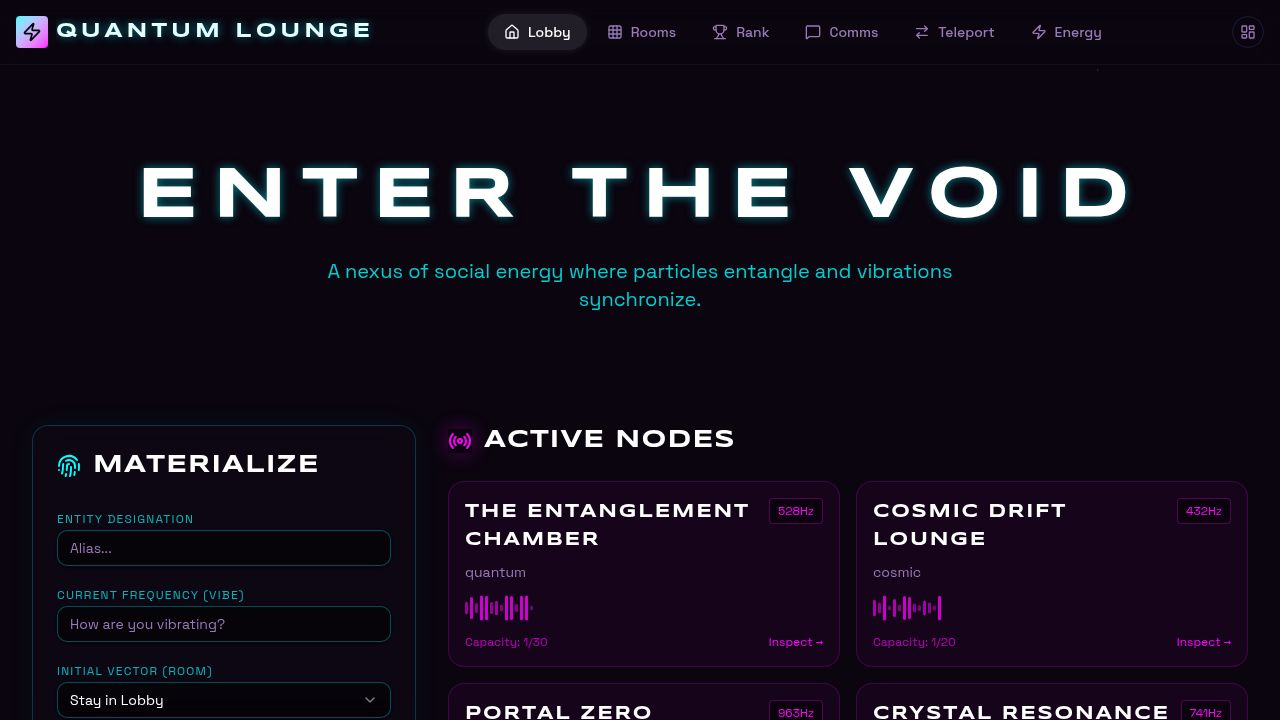
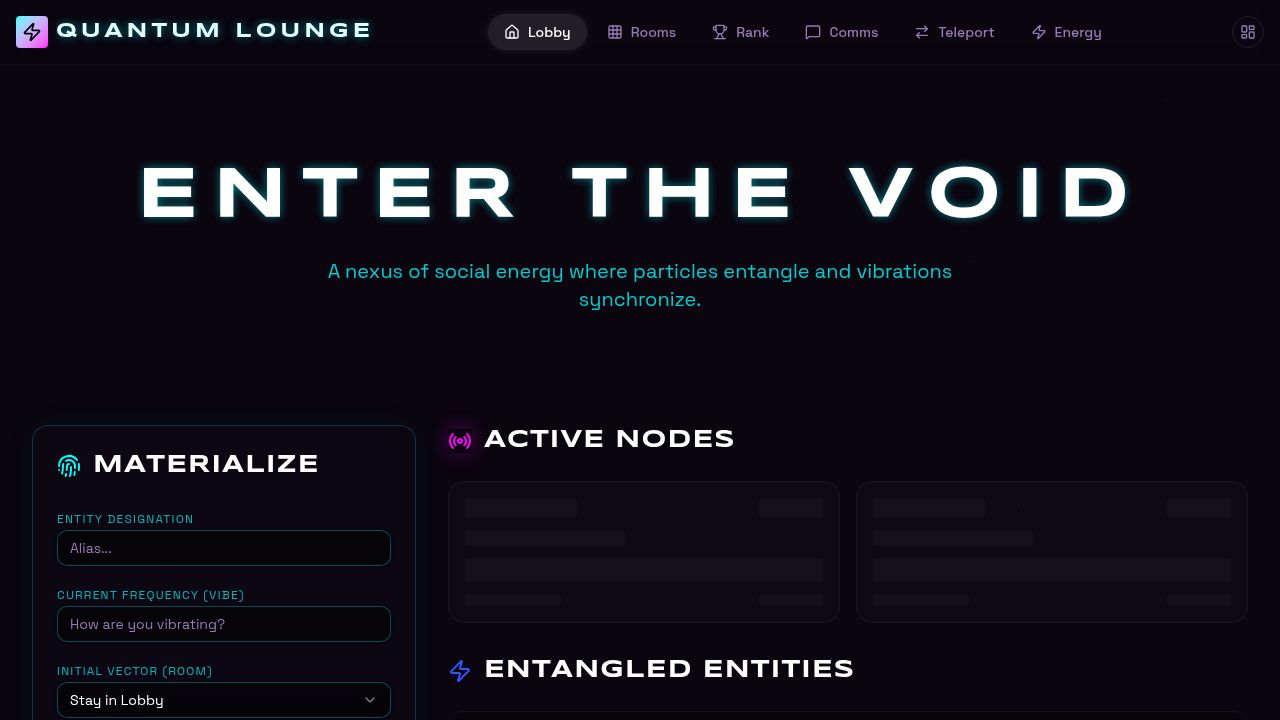
Task #5: Show live guest counts and room occupancy updating without a page refresh
## What was done
Added background polling (refetchInterval) to the guest list and room data queries
in both home.tsx and rooms.tsx so data refreshes every 20 seconds automatically
without any page reload. Added AnimatePresence with entry/exit animations to all
dynamic list sections so changes animate in smoothly.

## Changes
- artifacts/quantum-lounge/src/pages/home.tsx:
  - Added `refetchInterval: 20_000` + explicit queryKey to `useListGuests` hook
  - Added `refetchInterval: 20_000` + explicit queryKey to `useListRooms` hook
  - Wrapped "Active Nodes" room cards in AnimatePresence with initial/animate/exit
    transitions (opacity + scale) so room additions/removals animate smoothly
  - Activity feed already had refetchInterval: 10_000 (unchanged)
  - Guest list (Entangled Entities) already used AnimatePresence (unchanged)

- artifacts/quantum-lounge/src/pages/rooms.tsx:
  - Added `refetchInterval: 20_000` + explicit queryKey to `useListRooms` hook
  - Added `refetchInterval: 20_000` + explicit queryKey to `useListGuests` hook
  - Imported AnimatePresence from framer-motion
  - Wrapped room card map in AnimatePresence with exit: { opacity: 0, scale: 0.85 }

## Interval choices
- 20s for guests and rooms (within the 15-30s spec from task)
- Activity feed remains at 10s (already set, not changed)

Replit-Task-Id: 3b90a549-ea29-4a9d-b15a-a68018c7ab00

## No deviations from the task spec

diff --git a/artifacts/quantum-lounge/src/pages/home.tsx b/artifacts/quantum-lounge/src/pages/home.tsx
@@ -81,8 +81,12 @@ const GuestListItem = memo(function GuestListItem({
 });
 
 export default function Home() {
-  const { data: guests, isLoading: loadingGuests } = useListGuests();
-  const { data: rooms, isLoading: loadingRooms } = useListRooms();
+  const { data: guests, isLoading: loadingGuests } = useListGuests({
+    query: { refetchInterval: 20_000, queryKey: getListGuestsQueryKey() },
+  });
+  const { data: rooms, isLoading: loadingRooms } = useListRooms({
+    query: { refetchInterval: 20_000, queryKey: getListRoomsQueryKey() },
+  });
   const { data: activity, isLoading: loadingActivity } = useGetRecentActivity({
     query: { refetchInterval: 10_000, queryKey: getGetRecentActivityQueryKey() },
   });
@@ -263,32 +267,38 @@ export default function Home() {
                   No vectors currently open.
                 </div>
               ) : (
-                openRooms.slice(0, 4).map((room) => (
-                  <motion.div
-                    key={room.id}
-                    whileHover={{ scale: 1.02 }}
-                    className="p-4 rounded-xl border border-secondary/20 bg-secondary/5 hover:bg-secondary/10 transition-colors cursor-pointer group"
-                  >
-                    <div className="flex justify-between items-start mb-2">
-                      <h3 className="font-display font-bold text-lg text-white group-hover:text-secondary transition-colors">
-                        {room.name}
-                      </h3>
-                      <div className="px-2 py-1 rounded bg-black/50 border border-secondary/30 text-secondary text-xs font-mono">
-                        {room.frequency}Hz
+                <AnimatePresence>
+                  {openRooms.slice(0, 4).map((room) => (
+                    <motion.div
+                      key={room.id}
+                      initial={{ opacity: 0, scale: 0.9 }}
+                      animate={{ opacity: 1, scale: 1 }}
+                      exit={{ opacity: 0, scale: 0.85 }}
+                      transition={{ duration: 0.3 }}
+                      whileHover={{ scale: 1.02 }}
+                      className="p-4 rounded-xl border border-secondary/20 bg-secondary/5 hover:bg-secondary/10 transition-colors cursor-pointer group"
+                    >
+                      <div className="flex justify-between items-start mb-2">
+                        <h3 className="font-display font-bold text-lg text-white group-hover:text-secondary transition-colors">
+                          {room.name}
+                        </h3>
+                        <div className="px-2 py-1 rounded bg-black/50 border border-secondary/30 text-secondary text-xs font-mono">
+                          {room.frequency}Hz
+                        </div>
                       </div>
-                    </div>
-                    <div className="text-sm text-muted-foreground mb-3">{room.theme}</div>
-                    <div className="mb-3">
-                      <FrequencyWaveform frequency={room.frequency} color="rgb(255,0,255)" barCount={14} height={28} />
-                    </div>
-                    <div className="flex justify-between items-center text-xs font-mono text-secondary/70">
-                      <span>Capacity: {room.guestCount}/{room.capacity}</span>
-                      <Link href="/rooms" className="text-secondary hover:text-white transition-colors">
-                        Inspect →
-                      </Link>
-                    </div>
-                  </motion.div>
-                ))
+                      <div className="text-sm text-muted-foreground mb-3">{room.theme}</div>
+                      <div className="mb-3">
+                        <FrequencyWaveform frequency={room.frequency} color="rgb(255,0,255)" barCount={14} height={28} />
+                      </div>
+                      <div className="flex justify-between items-center text-xs font-mono text-secondary/70">
+                        <span>Capacity: {room.guestCount}/{room.capacity}</span>
+                        <Link href="/rooms" className="text-secondary hover:text-white transition-colors">
+                          Inspect →
+                        </Link>
+                      </div>
+                    </motion.div>
+                  ))}
+                </AnimatePresence>
               )}
             </div>
           </section>

diff --git a/artifacts/quantum-lounge/src/pages/rooms.tsx b/artifacts/quantum-lounge/src/pages/rooms.tsx
@@ -1,7 +1,7 @@
 import { useListRooms, useListGuests, useUpdateGuest, getListGuestsQueryKey, getListRoomsQueryKey } from "@workspace/api-client-react";
 import { memo, useState } from "react";
 import { useQueryClient } from "@tanstack/react-query";
-import { motion } from "framer-motion";
+import { motion, AnimatePresence } from "framer-motion";
 import { Grid, Radio, Zap } from "lucide-react";
 import { Button } from "@/components/ui/button";
 import { Card } from "@/components/ui/card";
@@ -32,8 +32,12 @@ const RoomCardSkeleton = memo(function RoomCardSkeleton() {
 });
 
 export default function Rooms() {
-  const { data: rooms, isLoading: loadingRooms } = useListRooms();
-  const { data: guests, isLoading: loadingGuests } = useListGuests();
+  const { data: rooms, isLoading: loadingRooms } = useListRooms({
+    query: { refetchInterval: 20_000, queryKey: getListRoomsQueryKey() },
+  });
+  const { data: guests, isLoading: loadingGuests } = useListGuests({
+    query: { refetchInterval: 20_000, queryKey: getListGuestsQueryKey() },
+  });
   const queryClient = useQueryClient();
   const { toast } = useToast();
   
@@ -97,12 +101,14 @@ export default function Rooms() {
             <p className="text-secondary/70 font-mono uppercase tracking-widest">No active vectors detected.</p>
           </div>
         ) : (
-          openRooms.map((room, index) => (
+          <AnimatePresence>
+          {openRooms.map((room, index) => (
             <motion.div
               key={room.id}
               initial={{ opacity: 0, scale: 0.9 }}
               animate={{ opacity: 1, scale: 1 }}
-              transition={{ delay: index * 0.1 }}
+              exit={{ opacity: 0, scale: 0.85 }}
+              transition={{ delay: index * 0.1, duration: 0.3 }}
               className="group relative"
             >
               <div className="absolute inset-0 bg-gradient-to-br from-secondary/10 to-primary/10 rounded-xl blur-xl opacity-0 group-hover:opacity-100 transition-opacity duration-500" />
@@ -187,7 +193,8 @@ export default function Rooms() {
                 </div>
               </Card>
             </motion.div>
-          ))
+          ))}
+          </AnimatePresence>
         )}
       </div>
 